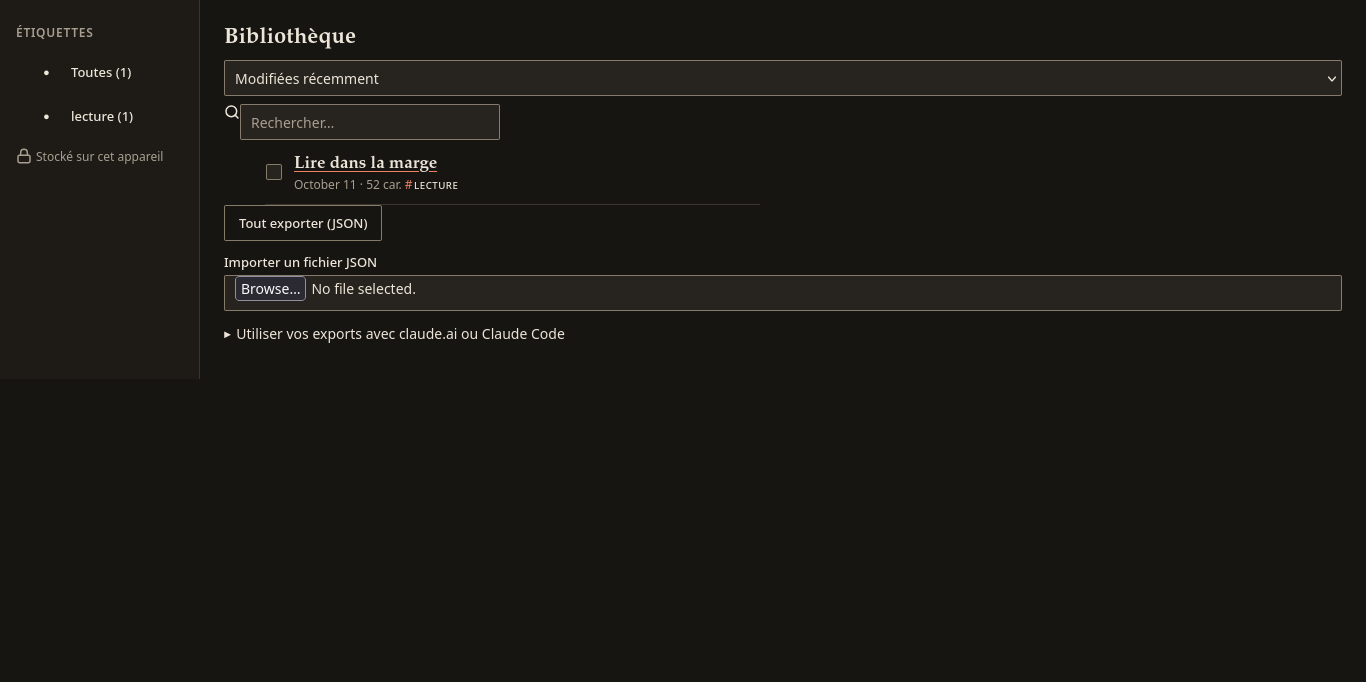
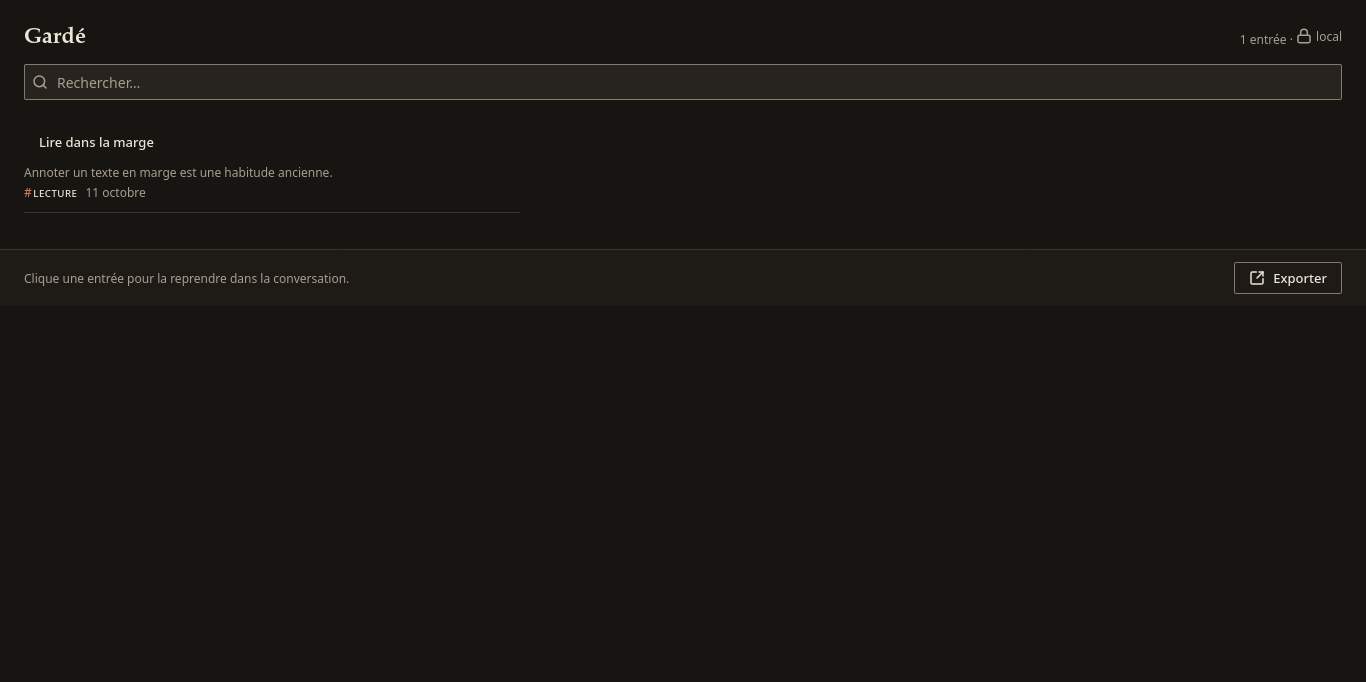
Run e2e against the new flow, fix sidebar height, release 0.1.4

diff --git a/tests/e2e/selection.spec.ts b/tests/e2e/selection.spec.ts
@@ -1,4 +1,4 @@
-import { By, until } from "selenium-webdriver";
+import { By, Key, until } from "selenium-webdriver";
 import type { WebDriver, WebElement } from "selenium-webdriver";
 import { afterAll, beforeAll, beforeEach, expect, it } from "vitest";
 import { API_KEY, startHarness } from "./harness";
@@ -31,8 +31,8 @@ async function selectArticleIntro(driver: WebDriver): Promise<void> {
   await driver.executeScript(`
     const paragraph = [...document.querySelectorAll("article p")].find((p) => p.textContent.includes(arguments[0]));
     getSelection().selectAllChildren(paragraph);
-    document.dispatchEvent(new MouseEvent("mouseup", { bubbles: true }));
   `, SELECTED);
+  await driver.actions().keyDown(Key.SHIFT).keyUp(Key.SHIFT).perform();
 }
 
 async function overlayRoot(driver: WebDriver): Promise<WebElement> {
@@ -49,17 +49,11 @@ it("explains the selection from the floating bar and sends only the selection", 
   const root = await overlayRoot(driver);
   await driver.wait(async () => (await root.findElements(By.css("[role=toolbar] button"))).length > 0, 10_000);
   const explain = await root.findElement(By.css("[role=toolbar] button"));
-  expect(await explain.getText()).toBe(t("overlay_explain"));
+  expect(await explain.getText()).toBe(t("overlay_ask"));
   expect(harness.mock.requests).toEqual([]);
   await explain.click();
 
   const dialog = await root.findElement(By.css("[role=dialog]"));
-  expect(await dialog.getText()).toContain(SELECTED);
-  expect(harness.mock.requests).toEqual([]);
-  const cardButtons = await dialog.findElements(By.css("button"));
-  const send = await Promise.all(cardButtons.map(async (button) => ((await button.getText()) === t("overlay_explain") ? button : null)));
-  await send.find((button) => button !== null)?.click();
-
   await driver.wait(async () => (await (await root.findElement(By.css("[role=dialog]"))).getText()).includes("serveur factice"), 10_000);
   expect(harness.mock.requests).toHaveLength(1);
   expect(harness.mock.requests[0]?.headers["x-api-key"]).toBe(API_KEY);

diff --git a/tests/e2e/sidebar.ts b/tests/e2e/sidebar.ts
@@ -5,6 +5,7 @@ import { find, findByText, jsClick, openExtensionPage, openTab, pageTabId, t, wa
 
 const COMPOSER = "textarea";
 const ANSWER = ".md";
+const MENU_TRIGGER = 'button[aria-haspopup="menu"]';
 
 export interface PageUnderTest {
   url: string;
@@ -19,21 +20,22 @@ export async function openSidebarBeside(harness: Harness, url: string, preparePa
   return { url, tabId: await pageTabId(harness.driver) };
 }
 
-/** The "+ Page" and "+ Selection" buttons read the browser's active tab, so the page tab is made active around the click. */
-export async function addFromPage(harness: Harness, page: PageUnderTest, buttonLabel: string, settledChip = ".chip__title"): Promise<void> {
+/** The "add page" and "add selection" menu items read the browser's active tab, so the page tab is made active around the click. */
+export async function addFromPage(harness: Harness, page: PageUnderTest, buttonLabel: string, settled = ".sb-chips .chip__title"): Promise<void> {
   const { driver } = harness;
-  const button = await findByText(driver, "button", buttonLabel);
+  await jsClick(driver, await find(driver, MENU_TRIGGER));
+  const item = await findByText(driver, "[role=menuitem]", buttonLabel);
   await whilePageIsActive(driver, page.tabId, async () => {
-    await jsClick(driver, button);
-    await waitForScript(driver, `document.querySelector(arguments[0])`, `.sb-chips ${settledChip}`);
+    await jsClick(driver, item);
+    await waitForScript(driver, `document.querySelector(arguments[0])`, settled);
   });
-  await find(driver, `.sb-chips ${settledChip}`);
+  await find(driver, settled);
 }
 
 export async function ask(harness: Harness, question: string): Promise<void> {
   const { driver } = harness;
   await driver.findElement(By.css(COMPOSER)).sendKeys(question);
-  await (await findByText(driver, "button", t("sidebar_send"))).click();
+  await (await find(driver, `button[aria-label="${t("sidebar_send")}"]`)).click();
 }
 
 export async function answerText(harness: Harness): Promise<string> {

diff --git a/tests/e2e/library.spec.ts b/tests/e2e/library.spec.ts
@@ -42,15 +42,13 @@ it("saves a page, finds it by search, attaches it to a new conversation, and exp
   const sidebar = await openExtensionPage(harness, "sidebar.html", "textarea");
   const library = await openExtensionPage(harness, "library-ui.html", ".lib");
 
-  await findByText(driver, ".row-title a", ARTICLE_TITLE);
+  await findByText(driver, ".row-title button", ARTICLE_TITLE);
   await (await find(driver, "input[type=search]")).sendKeys("habitude");
   const hit = await find(driver, "mark.hit");
   expect(await hit.getText()).toBe("habitude");
 
-  await (await findByText(driver, ".row-title a", ARTICLE_TITLE)).click();
-  await findByText(driver, "button", t("library_ui_attach"));
   harness.resetMock();
-  await (await findByText(driver, "button", t("library_ui_attach"))).click();
+  await (await findByText(driver, ".row-title button", ARTICLE_TITLE)).click();
   await findByText(driver, "[role=status]", t("library_ui_attached"));
 
   await driver.switchTo().window(sidebar);
@@ -60,13 +58,6 @@ it("saves a page, finds it by search, attaches it to a new conversation, and exp
   await ask(harness, "Que contient cette entrée ?");
   await waitForDone(harness);
   expect(JSON.stringify(harness.mock.requests[0]?.body)).toContain(ARTICLE_TEXT);
-
-  await driver.switchTo().window(library);
-  await (await findByText(driver, "button", t("library_ui_exportMarkdown"))).click();
-  const markdown = await downloaded("lire-dans-la-marge.md");
-  expect(markdown.startsWith("---\n")).toBe(true);
-  expect(markdown).toContain(ARTICLE_TITLE);
-  expect(markdown).toContain(ARTICLE_TEXT);
 
   await driver.get(harness.extension("library-ui.html"));
   await (await findByText(driver, "button", t("library_ui_exportAll"))).click();

diff --git a/design/components.css b/design/components.css
@@ -281,6 +281,7 @@ kbd { font: 500 var(--fs-caption)/var(--lh-caption) var(--font-mono); background
 .frame-caption { margin-bottom: var(--s-8); }
 .frame :is(.notice--error, .overlay-card, .anim-slide-in, .anim-rise, .anim-pop, .anim-drop, .notice--drop, .anim-sweep) { animation: none; }
 .doc main > section { margin-top: var(--section-gap); }
+html:has(.sidebar), html:has(.sidebar) body, html:has(.sidebar) #root { height: 100%; }
 .sidebar { display: flex; flex-direction: column; height: 100%; min-height: 0; }
 .sb-header { display: flex; align-items: center; gap: var(--s-4); height: 53px; padding: 0 var(--s-12); border-bottom: 1px solid var(--border); flex: none; }
 .sb-title { flex: 1; min-width: 0; display: flex; align-items: center; gap: var(--s-4); height: 32px; padding: 0 var(--s-4); border: 0; background: transparent; color: var(--text); cursor: pointer; text-align: left; font: 600 1rem/1.25rem var(--font-serif); }

diff --git a/tests/e2e/harness.ts b/tests/e2e/harness.ts
@@ -1,5 +1,5 @@
 import { execFileSync } from "node:child_process";
-import { closeSync, mkdtempSync, openSync, readFileSync } from "node:fs";
+import { closeSync, mkdtempSync, openSync, readdirSync, readFileSync } from "node:fs";
 import { createServer } from "node:http";
 import type { Server } from "node:http";
 import type { AddressInfo } from "node:net";
@@ -39,7 +39,8 @@ function buildXpi(): string {
   const outDir = mkdtempSync(join(tmpdir(), "ce-e2e-"));
   const webExt = join(ROOT, "node_modules/.bin/web-ext");
   execFileSync(webExt, ["build", "-s", join(ROOT, "dist-test"), "-a", outDir, "--overwrite-dest"], { stdio: "ignore" });
-  return join(outDir, "claude_everywhere-0.1.0.zip");
+  const [zip] = readdirSync(outDir).filter((name) => name.endsWith(".zip"));
+  return join(outDir, zip!);
 }
 
 function serveFixtures(): Promise<Server> {

diff --git a/tests/e2e/extension.spec.ts b/tests/e2e/extension.spec.ts
@@ -58,8 +58,8 @@ it("reports an http PDF on another origin as unreadable", async () => {
 
 it("marks a private page as unreadable in the sidebar", async () => {
   const page = await openSidebarBeside(harness, PRIVILEGED_URL);
-  await addFromPage(harness, page, t("sidebar_addPage"), ".chip--unreadable");
-  await findByText(harness.driver, ".chip--unreadable", t("sidebar_pageUnreadable"));
+  await addFromPage(harness, page, t("sidebar_addPage"), ".notice");
+  await findByText(harness.driver, ".notice", t("sidebar_protectedBody"));
 });
 
 it("logs no extension error or manifest warning", () => {

diff --git a/tests/e2e/session.ts b/tests/e2e/session.ts
@@ -35,6 +35,7 @@ export async function storeApiKey(harness: Harness, key = API_KEY): Promise<void
 /** Turning on the floating bar asks for the all-sites permission, which the test profile grants without a prompt. */
 export async function enableAllSites(harness: Harness): Promise<void> {
   const { driver } = harness;
+  await (await driver.findElement(By.css("details.advanced summary"))).click();
   const [overlaySwitch] = await driver.findElements(By.css(SWITCH));
   await overlaySwitch?.click();
   await driver.wait(

diff --git a/tests/e2e/screenshots.spec.ts b/tests/e2e/screenshots.spec.ts
@@ -42,7 +42,7 @@ for (const theme of THEMES) {
     await find(harness.driver, `html[data-theme=${theme}]`);
     await shoot("options", theme);
 
-    await showPage("library-ui.html", ".row-title a");
+    await showPage("library-ui.html", ".row-title button");
     await shoot("library", theme);
 
     await showPage("sidebar.html", "textarea");

diff --git a/src/sidebar/index.html b/src/sidebar/index.html
@@ -6,13 +6,6 @@
     <title>Claude Everywhere</title>
     <link rel="stylesheet" href="css/tokens.css" />
     <link rel="stylesheet" href="css/components.css" />
-    <style>
-      html,
-      body,
-      #root {
-        height: 100%;
-      }
-    </style>
   </head>
   <body>
     <div id="root"></div>

diff --git a/CHANGELOG.md b/CHANGELOG.md
@@ -4,6 +4,19 @@ Format inspiré de [Keep a Changelog](https://keepachangelog.com/fr/1.1.0/), ver
 
 ## [Non publié]
 
+## [0.1.4] - 2026-10-11
+
+### Modifié
+
+- Panneau latéral aligné sur la maquette : en-tête unique (titre de la conversation, nouvelle conversation, bibliothèque), pied de page réduit à une pastille « Part : … » et un champ à envoi en une flèche, modèle et ajouts de contexte dans le menu « + ».
+- Avis de changement d'onglet en haut du panneau, sans décaler la conversation ; avis « Document long » ; page protégée.
+- Le panneau occupe toute la hauteur de la barre latérale.
+- Bibliothèque simplifiée (« Gardé », clic pour ouvrir dans la conversation) et réglages avancés repliés.
+
+### Corrigé
+
+- Tests de bout en bout adaptés au nouveau flux et exécutés dans Firefox.
+
 ## [0.1.3] - 2026-10-11
 
 ### Ajouté
